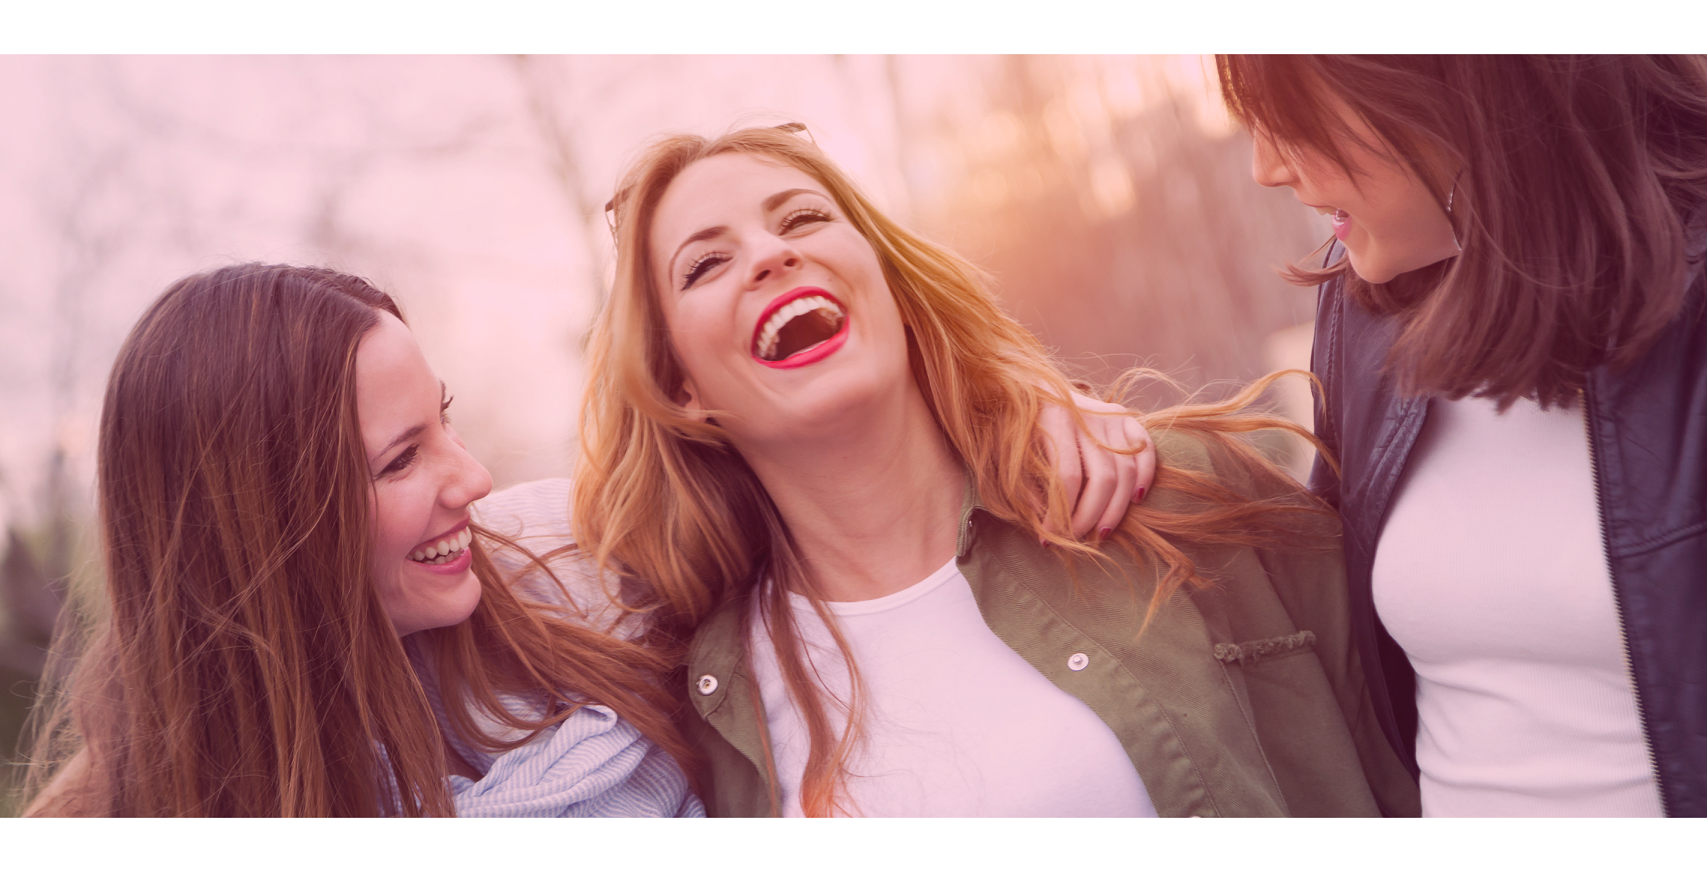
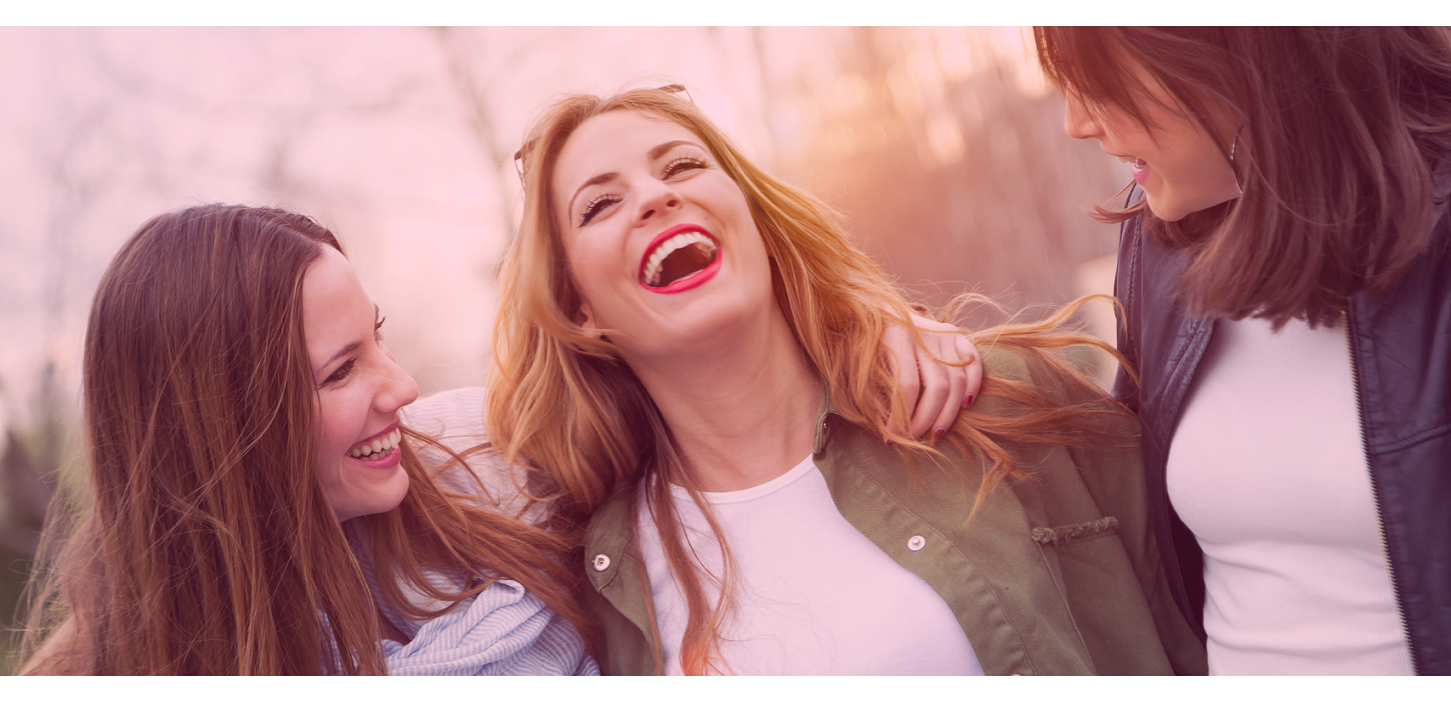
Ajustes no tamanho da imagem bem como tamanho e posicionamento dos textos na tela de confirmação de cadastro

diff --git a/public/css/style.css b/public/css/style.css
@@ -2487,11 +2487,12 @@ a.linksSemEstilos:link,a.linksSemEstilos:visited,a.linksSemEstilos:hover,a.links
 
 #section-confirmacao .col-md-4 {
   background: #F73F80;
+  padding-left: 40px;
 }
 
 #section-confirmacao #texto-confirmacao {
   width: 340px;
-  margin-top: 300px;
+  margin-top: 325px;
 }
 #section-confirmacao .col-md-4 .col-xs-9 {
   position: absolute;
@@ -2502,12 +2503,12 @@ a.linksSemEstilos:link,a.linksSemEstilos:visited,a.linksSemEstilos:hover,a.links
   margin-top: initial;
 }
 #section-confirmacao .col-md-4 .col-xs-9 h2 {
-  font-size: 50px;
+  font-size: 60px;
   line-height: inherit;
   margin-bottom: 0;
 }
 #section-confirmacao .col-md-4 .col-xs-9 p {
-  font-size: initial;
+  font-size: 20px;
   line-height: 1.4;
 }
 #section-confirmacao .col-md-4 .col-xs-9 a {

diff --git a/public/css/style-mobile.css b/public/css/style-mobile.css
@@ -142,7 +142,7 @@
     padding-top: 0;
   }
   #section-confirmacao .col-md-4 {
-    padding-bottom: 100%;
+    /*padding-bottom: 100%;*/
   }
   #section-login .login #formLogin {
     margin: 0;
@@ -198,7 +198,8 @@
 
   #section-confirmacao .col-md-4 .col-xs-9 p {
     margin: 0;
-    line-height: initial;
+    font-size: 15px;
+    line-height: initial;    
   }
 
   /* ### Mobile Navegação ###  */
